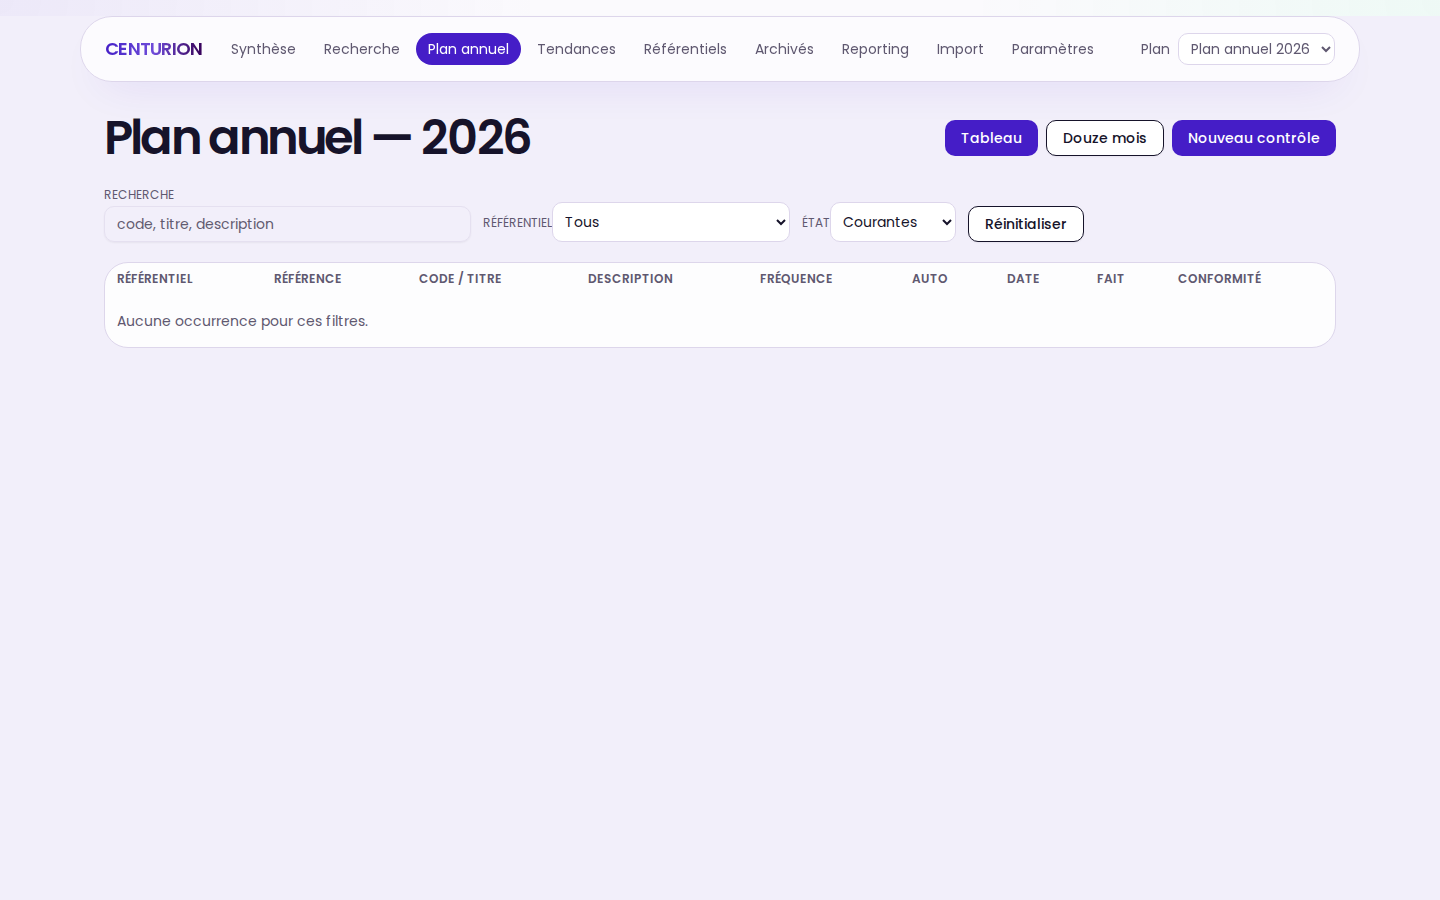
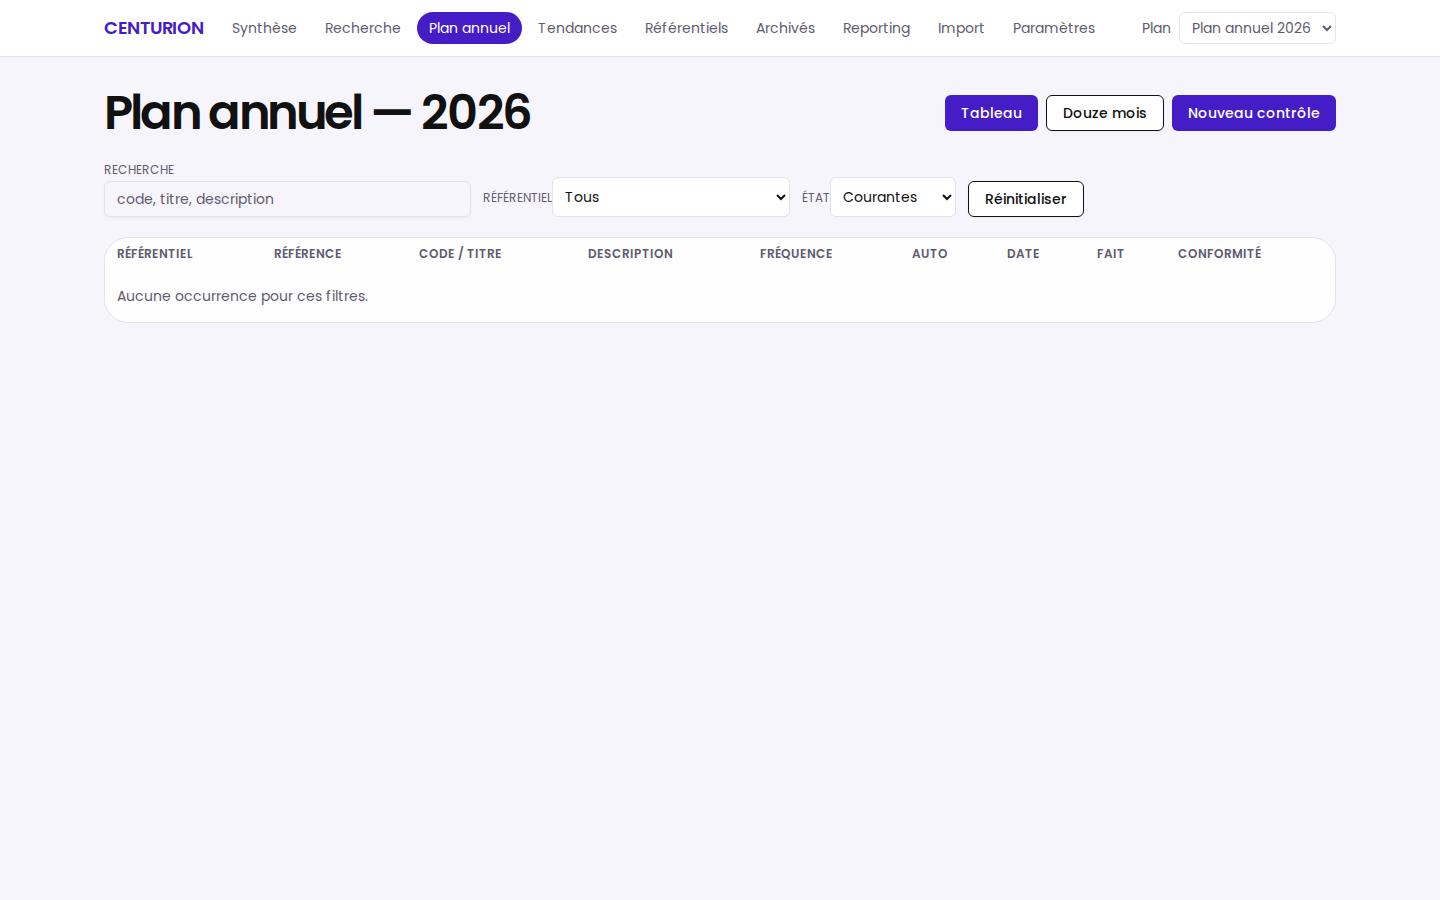
style: unslop pass on the UI (flat header, DESIGN.md tokens, sentence-case metrics)
Removes the gradient wordmark, glass header and colored shadow introduced
by the previous commit; restores DESIGN.md color tokens and 8px radius;
drops the radial body washes; adds a prefers-reduced-motion block; metric
card labels go sentence case. Verified: 169/169 tests, build, 9/9 e2e.

Generated by Mistral Vibe.

diff --git a/src/web/styles.css b/src/web/styles.css
@@ -40,11 +40,11 @@
   --color-brand-primary: #451dc7;
   --color-brand-deep: #360058;
   --color-brand-accent: #04f06a;
-  --color-ink: #16132a;
-  --color-surface: #fbfafd;
-  --color-surface-soft: #f2effa;
-  --color-border-brand: #ddd6eb;
-  --color-text-secondary: #5f5870;
+  --color-ink: #111111;
+  --color-surface: #ffffff;
+  --color-surface-soft: #f7f5fc;
+  --color-border-brand: #e5e0f0;
+  --color-text-secondary: #625b70;
 }
 
 /* shadcn/ui semantic variables mapped to the CENTURION palette. */
@@ -68,8 +68,7 @@
   --border: #e5e0f0;
   --input: #e5e0f0;
   --ring: #451dc7;
-  --radius: 0.75rem;
-  --shadow-card: 0 18px 45px -24px rgba(69, 29, 199, 0.18);
+  --radius: 0.5rem;
 }
 
 @theme inline {
@@ -112,10 +111,7 @@ body {
   margin: 0;
   font-family: var(--font-sans);
   color: var(--color-ink);
-  background:
-    radial-gradient(circle at top left, rgba(69, 29, 199, 0.08), transparent 32%),
-    radial-gradient(circle at top right, rgba(4, 240, 106, 0.05), transparent 28%),
-    var(--color-surface);
+  background: var(--color-surface);
   min-height: 100vh;
 }
 
@@ -130,4 +126,19 @@ a {
 
 button:active {
   transform: translateY(1px) scale(0.99);
+}
+
+@media (prefers-reduced-motion: reduce) {
+  html {
+    scroll-behavior: auto;
+  }
+
+  button,
+  a {
+    transition: none;
+  }
+
+  button:active {
+    transform: none;
+  }
 }

diff --git a/src/web/App.tsx b/src/web/App.tsx
@@ -73,10 +73,11 @@ export function App() {
     <PlanContext.Provider value={value}>
       <BrowserRouter>
         <div className="min-h-full bg-[var(--color-surface-soft)] text-[var(--color-ink)]">
-          <header className="mx-auto mt-4 flex max-w-7xl flex-wrap items-center gap-4 rounded-[2rem] border border-[var(--color-border-brand)] bg-white/75 px-6 py-4 shadow-[0_18px_45px_-24px_rgba(69,29,199,0.18)] backdrop-blur-xl">
-            <span className="bg-gradient-to-r from-[var(--color-brand-primary)] via-[#6f4bd9] to-[var(--color-brand-deep)] bg-clip-text text-lg font-semibold tracking-[-0.04em] text-transparent">
-              CENTURION
-            </span>
+          <header className="border-b border-[var(--color-border-brand)] bg-white">
+            <div className="mx-auto flex max-w-7xl flex-wrap items-center gap-4 px-6 py-3">
+              <span className="text-lg font-semibold tracking-tight text-[var(--color-brand-primary)]">
+                CENTURION
+              </span>
               <nav aria-label="Navigation principale" className="flex flex-wrap gap-1 text-sm">
                 {NAV.map((item) => (
                   <NavLink
@@ -111,6 +112,7 @@ export function App() {
                   ))}
                 </select>
               </label>
+            </div>
           </header>
 
           {error ? (

diff --git a/src/web/pages/Reporting.tsx b/src/web/pages/Reporting.tsx
@@ -136,7 +136,7 @@ export function Reporting() {
 function Metric({ label, value }: { label: string; value: string }) {
   return (
     <div className="rounded-3xl border border-[var(--color-border-brand)] bg-white/88 shadow-[0_24px_80px_-52px_rgba(22,19,42,0.32)] p-4">
-      <p className="text-xs uppercase tracking-wide text-[var(--color-text-secondary)]">{label}</p>
+      <p className="text-xs tracking-wide text-[var(--color-text-secondary)]">{label}</p>
       <p className="mt-1 text-2xl font-light tabular-nums">{value}</p>
     </div>
   );

diff --git a/src/web/pages/Summary.tsx b/src/web/pages/Summary.tsx
@@ -24,7 +24,7 @@ type Summary = {
 function Card({ label, value }: { label: string; value: string }) {
   return (
     <div className="rounded-3xl border border-[var(--color-border-brand)] bg-white/88 shadow-[0_24px_80px_-52px_rgba(22,19,42,0.32)] p-4">
-      <p className="text-xs uppercase tracking-wide text-[var(--color-text-secondary)]">{label}</p>
+      <p className="text-xs tracking-wide text-[var(--color-text-secondary)]">{label}</p>
       <p className="mt-1 text-2xl font-light tabular-nums">{value}</p>
     </div>
   );

diff --git a/docs/EXECUTION.md b/docs/EXECUTION.md
@@ -1004,3 +1004,40 @@ upload/liste/download/delete/415/413/422/404 + nom de fichier assaini) et
 
 Commit local de la branche de travail ; exposer éventuellement `get_trends`
 en lecture MCP si un hôte IA en a besoin.
+
+## Post-T21 — passe unslop (skill heydamir/unslop) sur l'UI
+
+État : livré et vérifié le 8 novembre 2026. Skill `unslop` installé en global
+dans `~/.vibe/skills/unslop/` (CC-BY-4.0, crédit conservé) ; audit mené avec
+`references/signs.md`.
+
+### Corrections
+
+- `App.tsx` : bandeau rendu plat (blanc, filet `border-brand`, sans ombre
+  colorée ni `backdrop-blur`, sans `rounded-[2rem]`) et logo CENTURION en
+  texte plein `brand-primary` — le dégradé de texte et la carte verre
+  introduits par le précédent commit sont retirés.
+- `styles.css` : tokens restaurés aux valeurs DESIGN.md (`ink #111111`,
+  `surface #ffffff`, `surface-soft #f7f5fc`, `border #e5e0f0`,
+  `text-secondary #625b70`), `--radius` remis à `0.5rem` (8 px), variable
+  `--shadow-card` (ombre violette) supprimée, fonds `body` aplati (les deux
+  washes radiales violet/vert retirés), bloc `prefers-reduced-motion` ajouté.
+- `Summary.tsx` / `Reporting.tsx` : libellés des cartes métriques en sentence
+  case (`uppercase` retiré).
+
+Conservé : `rounded-3xl` des panneaux et `uppercase` des en-têtes de tableaux
+(24 occurrences, motif uniforme préexistant, hors périmètre de la passe),
+transitions 180 ms et `scale(0.99)` au press (conformes DESIGN.md).
+
+### Commandes et résultats
+
+| Commande | Résultat |
+| --- | --- |
+| `npm run check` | 169/169 tests, typecheck et lint OK |
+| `npm run build` | OK |
+| `npm run test:e2e` | 9/9 passés (dont header 390/1440 + reduced-motion) |
+
+### Prochaine action
+
+Commit local ; si une passe plus profonde est souhaitée, uniformiser le rayon
+des panneaux (8 px) et la casse des libellés sur les 24 occurrences restantes.
